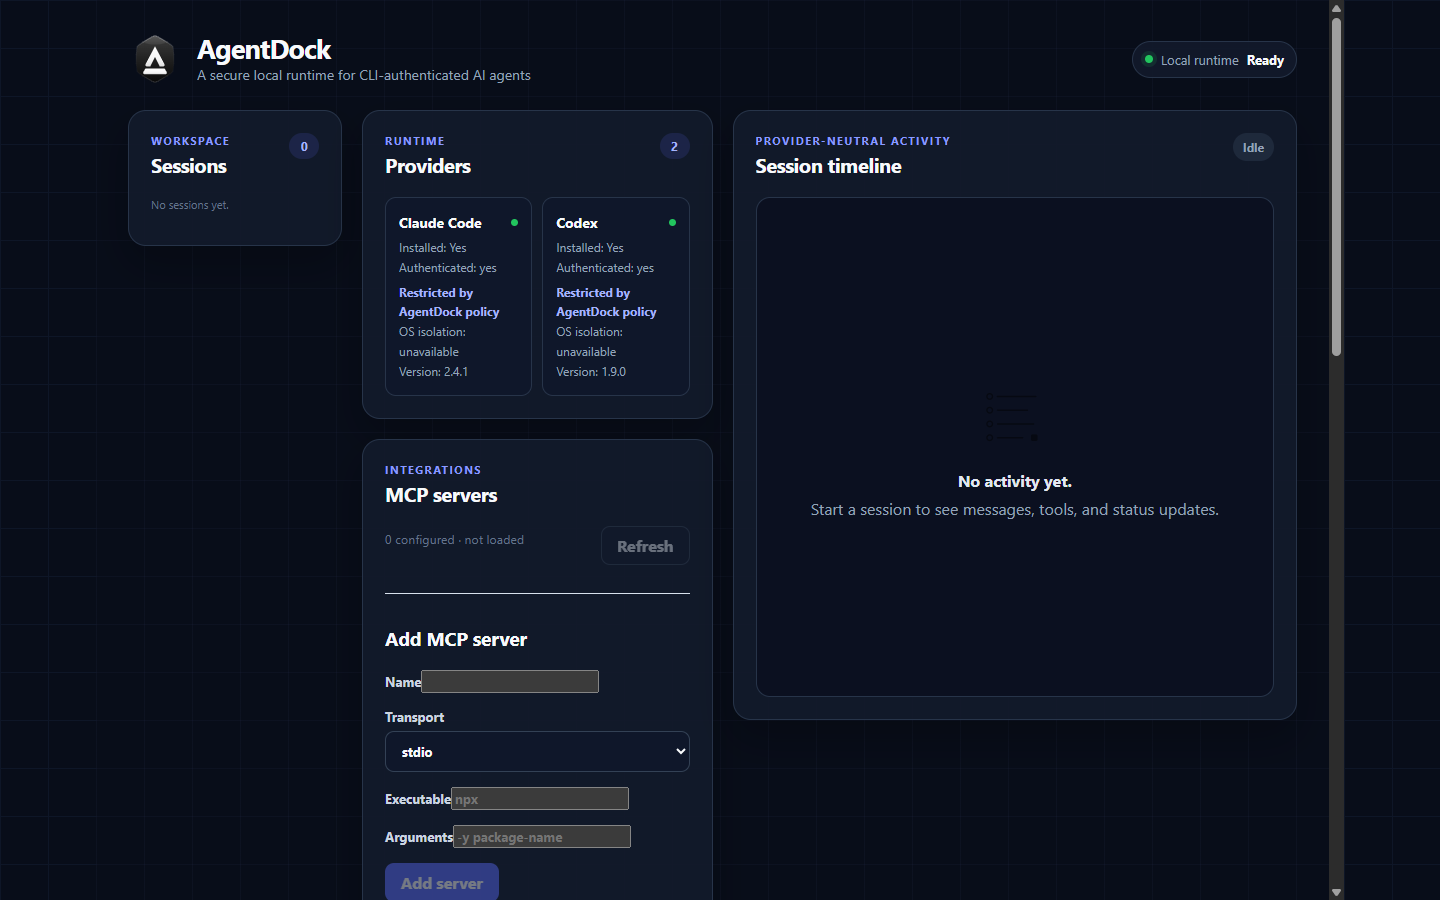
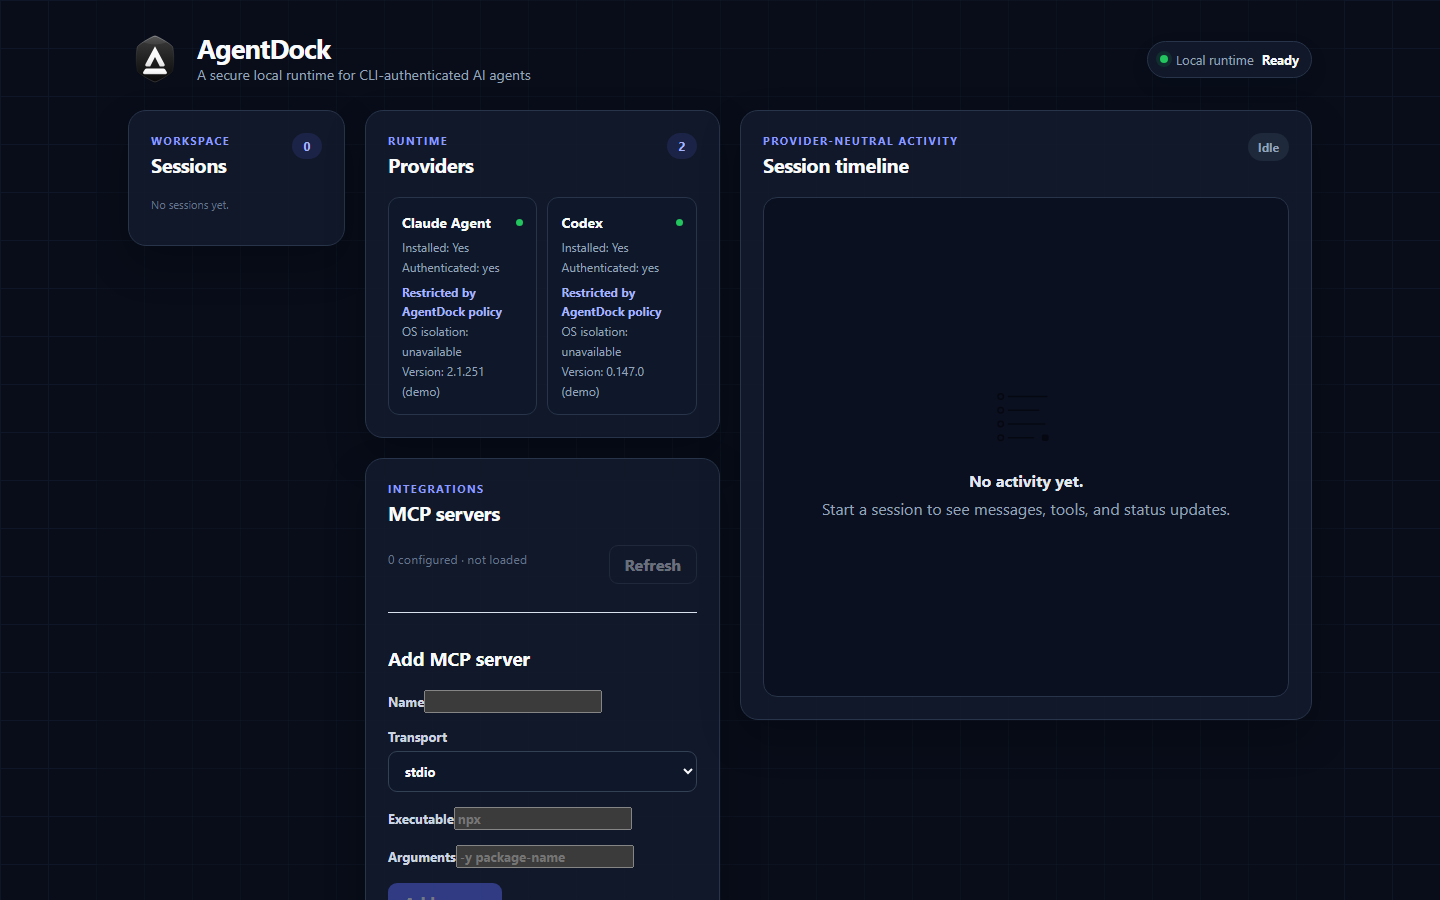
fix(brand): enforce Claude Agent branding and truthful demo screenshots (#68)
* fix(brand): enforce Claude Agent branding and truthful demo screenshots

The SDK-backed provider was shipping as "Claude Code" in the desktop
selector, provider empty state, and asset-capture fixture, and public
screenshots showed fictitious versions (2.4.1 / 1.9.0) and a synthetic
transport id with no demo indication -- exactly what the release policy
in sdk-version.ts already prohibited but nothing enforced.

Centralize the approved display names in
PROVIDER_DISPLAY_NAMES (packages/shared/src/provider.ts) and consume it
from the real detectors, the desktop UI, the capture fixture, and the
generated social-image copy. The capture fixture now reports the actual
pinned/verified provider versions suffixed "(demo)" and a
self-labeling "demo-interactive" transport id instead of invented
numbers. Regenerated the five documentation screenshots and four
derived social images, and added a regression test that fails the
build if "Claude Code"/"Claude Code Agent" is reintroduced in any
release-visible source.

Closes #50

* fix(brand): close remaining Claude Code leak from code review

Code review on the branding fix (#50) surfaced a real gap: the Claude
legacy-CLI parser's fallback error message still hardcoded "Claude
Code reported an error result", which renders verbatim in the desktop
activity timeline -- exactly the release-visible string the ticket
set out to eliminate, just outside the regression test's file list.

Route that fallback through the same centralized
[…]

diff --git a/apps/desktop/src/asset-capture-bridge.ts b/apps/desktop/src/asset-capture-bridge.ts
@@ -6,23 +6,38 @@ import type {
   ProviderStatusV2,
   WorkspaceTrustViewV2,
 } from '@agent-dock/shared';
+import { PROVIDER_DISPLAY_NAMES } from '@agent-dock/shared';
 import type { AgentDockBridge } from './window.js';
+
+/** Documentation screenshots must never present fictitious data as real. This renderer-side
+ * fixture cannot import `@agent-dock/agent-runtime` (that package is daemon/Node-only and
+ * crossing that boundary into the Electron renderer bundle is exactly the separation this repo's
+ * security model depends on), so the versions below are plain literals kept in manual sync with
+ * the daemon's pinned/verified values -- `CLAUDE_AGENT_SDK_CLAUDE_CODE_VERSION` in
+ * `packages/agent-runtime/src/providers/claude/sdk-version.ts` and
+ * `CODEX_LEGACY_COMPATIBILITY.providerVersion` in
+ * `packages/agent-runtime/src/providers/compatibility-manifest.ts`. Update both together, and
+ * keep every version suffixed "(demo)" so a reader can never mistake this fixture-driven capture
+ * for a live provider read. */
+const CLAUDE_DEMO_VERSION = '2.1.251 (demo)';
+const CODEX_DEMO_VERSION = '0.147.0 (demo)';
+const DEMO_TRANSPORT_ID = 'demo-interactive';
 
 const providers: ProviderStatus[] = [
   {
     id: 'claude',
-    name: 'Claude Code',
+    name: PROVIDER_DISPLAY_NAMES.claude,
     installed: true,
     authenticated: 'authenticated',
-    version: '2.4.1',
+    version: CLAUDE_DEMO_VERSION,
     capabilities: { resume: true, cancellation: true, tools: true, usage: true, thinking: true },
   },
   {
     id: 'codex',
-    name: 'Codex',
+    name: PROVIDER_DISPLAY_NAMES.codex,
     installed: true,
     authenticated: 'authenticated',
-    version: '1.9.0',
+    version: CODEX_DEMO_VERSION,
     capabilities: { resume: true, cancellation: true, tools: true, usage: true },
   },
 ];
@@ -34,7 +49,7 @@ const providersV2: ProviderStatusV2[] = providers.map((provider) => ({
   authenticated: provider.authenticated,
   transports: [
     {
-      id: 'asset-capture-interactive',
+      id: DEMO_TRANSPORT_ID,
       priority: 0,
       stability: 'stable',
       possibleEffects: ['read', 'filesystem_write', 'command'],
@@ -162,7 +177,7 @@ export function installAssetCaptureBridge(): void {
     },
     createInteractiveSession: async (input) => {
       const selection = {
-        transport: 'asset-capture-interactive',
+        transport: DEMO_TRANSPORT_ID,
         enabled: [],
         unavailableOptional: [],
         possibleEffects: [],

diff --git a/apps/desktop/test/release-branding.test.ts b/apps/desktop/test/release-branding.test.ts
@@ -1,0 +1,44 @@
+import { readFileSync } from 'node:fs';
+import { fileURLToPath } from 'node:url';
+import { describe, expect, it } from 'vitest';
+import { PROVIDER_DISPLAY_NAMES } from '@agent-dock/shared';
+
+/**
+ * Guards the release-visible provider identity policy: product UI may say "Claude Agent" (or
+ * "Claude"), never "Claude Code" or "Claude Code Agent" — those names stay reserved for accurate
+ * technical references to the separately installed, upstream Claude CLI (docs, error messages
+ * naming the binary), never for the product-facing provider name. See
+ * `packages/shared/src/provider.ts` and `packages/agent-runtime/src/providers/claude/sdk-version.ts`.
+ */
+const PROHIBITED_DISPLAY_NAMES = ['Claude Code', 'Claude Code Agent'];
+
+/** Every release-visible renderer surface and generator that must render the provider name, not
+ * hardcode it. */
+const RELEASE_VISIBLE_SOURCE_FILES = [
+  '../src/App.tsx',
+  '../src/components/ProviderPanel.tsx',
+  '../src/asset-capture-bridge.ts',
+  '../../../scripts/assets/generate_public_assets.py',
+  '../../../packages/agent-runtime/src/providers/claude/parser.ts',
+];
+
+function readSource(relativePath: string): string {
+  return readFileSync(fileURLToPath(new URL(relativePath, import.meta.url)), 'utf8');
+}
+
+describe('release-visible provider branding', () => {
+  it('centralizes the approved Claude display name as "Claude Agent"', () => {
+    expect(PROVIDER_DISPLAY_NAMES.claude).toBe('Claude Agent');
+    expect(PROHIBITED_DISPLAY_NAMES).not.toContain(PROVIDER_DISPLAY_NAMES.claude);
+  });
+
+  it.each(RELEASE_VISIBLE_SOURCE_FILES)(
+    'never reintroduces a prohibited SDK display name in %s',
+    (relativePath) => {
+      const source = readSource(relativePath);
+      for (const prohibited of PROHIBITED_DISPLAY_NAMES) {
+        expect(source).not.toContain(prohibited);
+      }
+    },
+  );
+});

diff --git a/packages/shared/src/provider.ts b/packages/shared/src/provider.ts
@@ -4,6 +4,21 @@ export const PROVIDER_IDS = ['claude', 'codex'] as const;
 export type ProviderId = (typeof PROVIDER_IDS)[number];
 
 /**
+ * The single source of truth for release-visible provider names. Every UI surface, status
+ * payload, and screenshot fixture must render these values rather than a local string literal, so
+ * a branding-policy change only needs to happen once.
+ *
+ * Anthropic's Agent SDK distribution terms permit product UI to say "Claude Agent" (or "Claude"
+ * inside an Agents menu), but not "Claude Code" or "Claude Code Agent" — those names stay reserved
+ * for accurate technical references to the separately installed, upstream Claude CLI executable
+ * (docs, error messages naming the binary, etc.), never for the product-facing provider identity.
+ */
+export const PROVIDER_DISPLAY_NAMES: Record<ProviderId, string> = {
+  claude: 'Claude Agent',
+  codex: 'Codex',
+};
+
+/**
  * Deliberately a pure string union with no boolean member (AD-13): the previous
  * `boolean | 'unknown'` shape let a lazy `if (status.authenticated)` silently treat "couldn't
  * determine" as "authenticated", which is exactly backwards for a security-relevant signal.

diff --git a/packages/agent-runtime/src/providers/claude/sdk-version.ts b/packages/agent-runtime/src/providers/claude/sdk-version.ts
@@ -1,3 +1,5 @@
+import { PROVIDER_DISPLAY_NAMES } from '@agent-dock/shared';
+
 /**
  * The Agent SDK is deliberately pinned: its stream/control protocol is fixture-backed rather
  * than treated as a semver-stable CLI implementation detail.  Update these constants, package
@@ -14,8 +16,8 @@ export const CLAUDE_AGENT_SDK_WINDOWS_X64_BINARY_PACKAGE =
   '@anthropic-ai/claude-agent-sdk-win32-x64';
 export const CLAUDE_AGENT_SDK_WINDOWS_X64_BINARY_VERSION = CLAUDE_AGENT_SDK_VERSION;
 
-/** A release-visible name, not the existing local-CLI provider display name. */
+/** Mirrors the centralized `PROVIDER_DISPLAY_NAMES.claude` policy for this SDK-backed transport. */
 export const CLAUDE_AGENT_SDK_BRANDING = {
-  approvedDisplayName: 'Claude Agent',
+  approvedDisplayName: PROVIDER_DISPLAY_NAMES.claude,
   prohibitedDisplayNames: ['Claude Code', 'Claude Code Agent'],
 } as const;

diff --git a/apps/desktop/src/components/ProviderPanel.tsx b/apps/desktop/src/components/ProviderPanel.tsx
@@ -1,4 +1,4 @@
-import type { ProviderStatusV2 } from '@agent-dock/shared';
+import { PROVIDER_DISPLAY_NAMES, type ProviderStatusV2 } from '@agent-dock/shared';
 import noProvidersIllustration from '../../assets/illustrations/no-providers.svg';
 
 const AUTH_SOURCE_LABELS: Record<string, string> = {
@@ -30,7 +30,10 @@ export function ProviderPanel({ providers }: { providers: ProviderStatusV2[] }) 
       <div className="provider-panel provider-panel--empty">
         <img className="provider-panel__empty-illustration" src={noProvidersIllustration} alt="" />
         <strong>No providers found</strong>
-        <span>Install Claude Code or Codex, then restart AgentDock.</span>
+        <span>
+          Install {PROVIDER_DISPLAY_NAMES.claude} or {PROVIDER_DISPLAY_NAMES.codex}, then restart
+          AgentDock.
+        </span>
       </div>
     );
   }

diff --git a/apps/desktop/src/App.tsx b/apps/desktop/src/App.tsx
@@ -10,6 +10,7 @@ import type {
   SessionListV2Page,
   WorkspaceTrustViewV2,
 } from '@agent-dock/shared';
+import { PROVIDER_DISPLAY_NAMES } from '@agent-dock/shared';
 import type {
   RendererInteractionResolution,
   RendererQuestionResponse,
@@ -558,8 +559,8 @@ export function App() {
                   onChange={(event) => setProvider(event.target.value as ProviderId)}
                   disabled={creating}
                 >
-                  <option value="claude">Claude Code</option>
-                  <option value="codex">Codex</option>
+                  <option value="claude">{PROVIDER_DISPLAY_NAMES.claude}</option>
+                  <option value="codex">{PROVIDER_DISPLAY_NAMES.codex}</option>
                 </select>
               </label>
               <label>

diff --git a/packages/agent-runtime/src/providers/claude/parser.ts b/packages/agent-runtime/src/providers/claude/parser.ts
@@ -1,4 +1,5 @@
 import type { AgentEvent } from '@agent-dock/shared';
+import { PROVIDER_DISPLAY_NAMES } from '@agent-dock/shared';
 import type { Logger } from '../../logger.js';
 import type { ParsedLine } from '../common/run-session.js';
 
@@ -88,7 +89,10 @@ export function parseClaudeLine(raw: unknown, logger: Logger): ParsedLine {
         events.push({
           type: 'error',
           code: typeof obj.subtype === 'string' ? obj.subtype : undefined,
-          message: typeof obj.result === 'string' ? obj.result : 'Claude Code reported an error result',
+          message:
+            typeof obj.result === 'string'
+              ? obj.result
+              : `${PROVIDER_DISPLAY_NAMES.claude} reported an error result`,
           recoverable: false,
         });
       }

diff --git a/packages/agent-runtime/src/providers/claude/detect.ts b/packages/agent-runtime/src/providers/claude/detect.ts
@@ -1,4 +1,5 @@
 import type { AuthSource, AuthStatus, ProviderStatus } from '@agent-dock/shared';
+import { PROVIDER_DISPLAY_NAMES } from '@agent-dock/shared';
 import { execCapture } from '../../process/exec-capture.js';
 import { findExecutable } from '../../detect-executable.js';
 import type { Logger } from '../../logger.js';
@@ -66,7 +67,7 @@ export async function detectClaude(logger: Logger): Promise<ProviderStatus> {
     id: 'claude' as const,
     // Product-facing provider identity stays "Claude Agent" for both transports; this function
     // still probes only the separately installed local CLI compatibility path.
-    name: 'Claude Agent',
+    name: PROVIDER_DISPLAY_NAMES.claude,
     authSource: 'unknown' as const,
     capabilities: CLAUDE_CAPABILITIES,
   };

diff --git a/packages/agent-runtime/src/providers/codex/detect.ts b/packages/agent-runtime/src/providers/codex/detect.ts
@@ -1,4 +1,5 @@
 import type { AuthSource, AuthStatus, ProviderStatus } from '@agent-dock/shared';
+import { PROVIDER_DISPLAY_NAMES } from '@agent-dock/shared';
 import { execCapture } from '../../process/exec-capture.js';
 import { findExecutable } from '../../detect-executable.js';
 import type { Logger } from '../../logger.js';
@@ -49,7 +50,7 @@ export async function detectCodex(
 ): Promise<ProviderStatus> {
   const base = {
     id: 'codex' as const,
-    name: 'Codex',
+    name: PROVIDER_DISPLAY_NAMES.codex,
     capabilities: CODEX_CAPABILITIES,
     authSource: 'unknown' as const,
   };

diff --git a/scripts/assets/generate_public_assets.py b/scripts/assets/generate_public_assets.py
@@ -150,7 +150,7 @@ def make_readme_and_portfolio() -> None:
     draw.text((78, 210), "AgentDock", fill=PAPER, font=font(58, bold=True))
     draw.multiline_text(
         (78, 292),
-        "Forkable Electron boilerplate\nfor desktop products using\nClaude Code or Codex CLI.",
+        "Forkable Electron boilerplate\nfor desktop products using\nClaude Agent or Codex CLI.",
         fill="#CBD5E1",
         font=font(23),
         spacing=8,
@@ -202,7 +202,7 @@ def make_social(width: int, height: int, filename: str) -> None:
     )
     draw.text(
         (pad, height - pad - 30),
-        "Fork it · Claude Code · Codex CLI",
+        "Fork it · Claude Agent · Codex CLI",
         fill="#94A3B8",
         font=font(round(height * 0.027)),
     )
